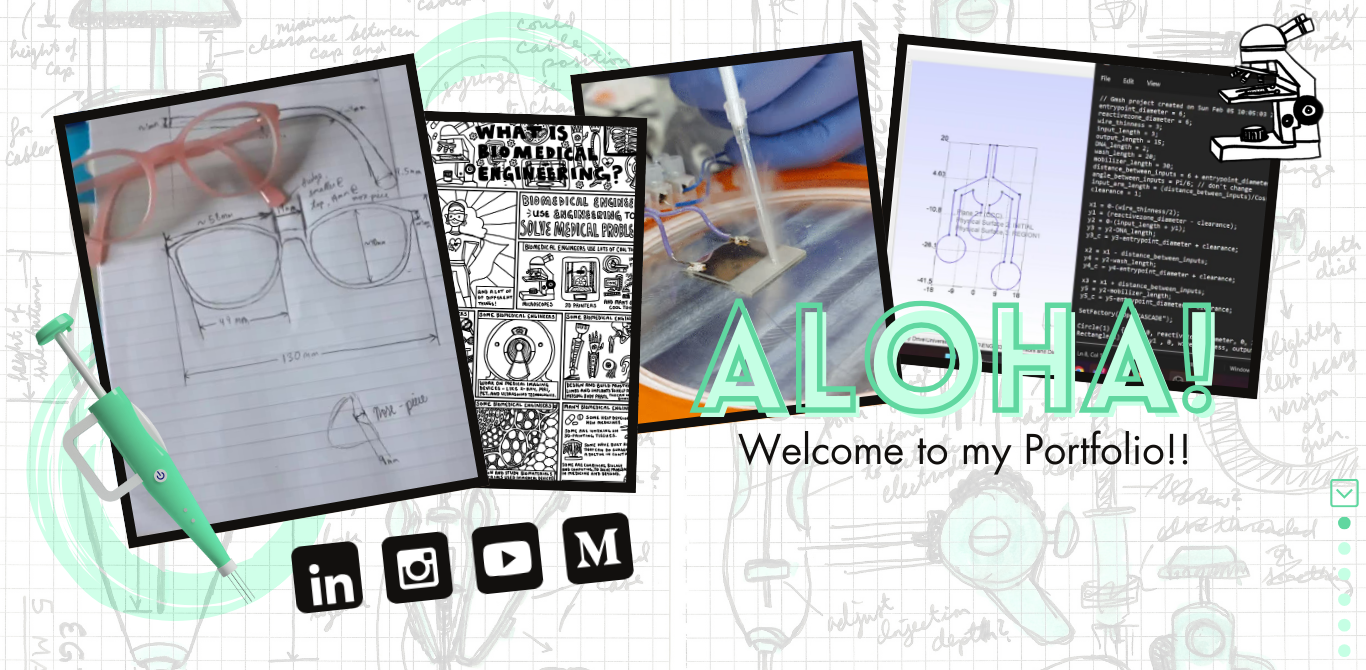
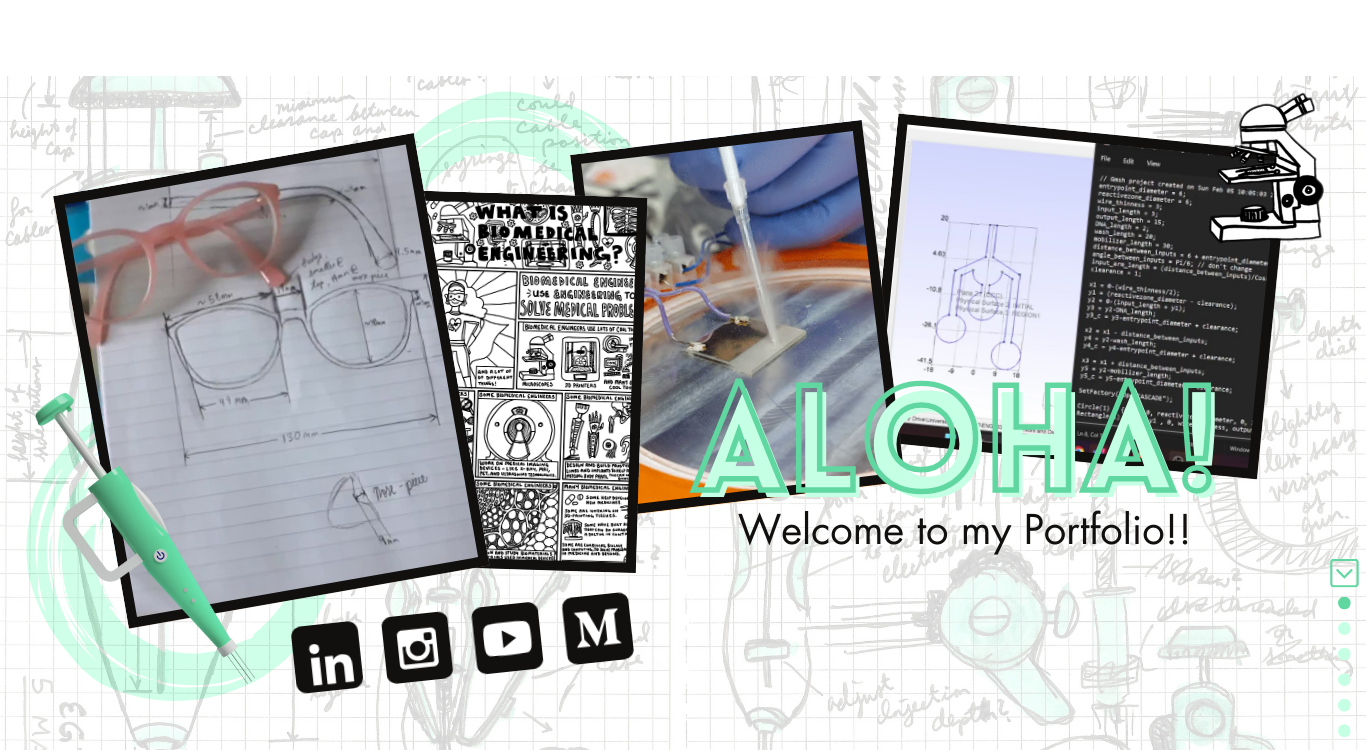
Added lots of section backgrounds, headings, footer, etc.

diff --git a/style.css b/style.css
@@ -28,23 +28,36 @@ body{
 
 .navbar{
     background-color: #60D7A0;
-    padding:1em;
+    padding:0.6rem;
+    position: fixed;
+    width: inherit;
     display: grid;
     grid-template-columns: repeat(3, 1fr);
+    top:0;
+    z-index: 999;
 }
 
 #name-wrapper{
   grid-column: 1;
+  padding-left: 0.4rem;
 }
-#name-header{
+#name-header a{
     font-family: Raleway;
     font-weight: 800;
     font-size: 1.7rem;
+    text-decoration: none;
     text-shadow: 0.1rem 0.1rem 0.1rem #C5FFE4;
     color: white;
     text-transform: uppercase;
     letter-spacing: 0.1rem;
 }
+#name-header a:hover{
+    cursor: pointer;
+    text-shadow: 0.15rem 0.15rem 0.1rem #C5FFE4;
+    transition: 250ms ease-in-out;
+    letter-spacing: 0.15rem;
+}
+
 #name-subtitle{
     font-family: Questrial;
     font-size: 0.7rem;
@@ -54,6 +67,7 @@ body{
 #nav-wrapper{
     font-family: Questrial;
     font-size: 1rem;
+    padding-right: 1rem;
     color: white;
     text-transform: lowercase;
     grid-column: 2/4;
@@ -78,7 +92,7 @@ a .navlink{
     text-decoration: underline dotted;
     margin-left: 0.75rem;
     margin-right: 0.75rem;
-    transition: 500ms;
+    transition: 500ms ease-in-out;
 }
 
 .navlink:hover ::after{
@@ -87,7 +101,7 @@ a .navlink{
 
 section{
     width: 100%;
-    height: 100%;
+    height: 100vh;
     display: block;
 }
 
@@ -95,4 +109,94 @@ section{
     background-image: url("assets/img/bg_temp.png");
     background-size: cover;
     background-repeat: none;
+    -webkit-mask-image: linear-gradient(to bottom, black 98%, rgba(0,0,0,0.1) 100%);
+    mask-image: linear-gradient(to bottom, black 98%, rgba(0,0,0,0.1) 100%);
+}
+#projects{
+    background-image: url("assets/img/projects_bg3.png");
+    background-size: cover;
+    background-repeat: none;
+    -webkit-mask-image: linear-gradient(to top, black 98%, rgba(0,0,0,0.1) 100%);
+    mask-image: linear-gradient(to top, black 98%, rgba(0,0,0,0.1) 100%);
+}
+#featured-projects-container{
+    position: fixed;
+    top:4rem;
+    width: 90%;
+    height: 85%;
+    margin: 5%;
+    margin-top:1%;
+}
+#featured-projects-h1{
+    font-family: Raleway;
+    font-weight: 800;
+    font-size: 2rem;
+    text-decoration: none;
+    text-shadow: -0.15rem -0.1rem white;
+    color: #165043;
+    text-transform: uppercase;
+    letter-spacing: 0.09rem;
+}
+
+#career-education{
+    background-image: linear-gradient(#77d196, #C5FFE4);
+    padding-top: 1rem;
+}
+
+#career-education-container{
+    margin:2%;
+    margin-top:5%;
+}
+#career-education-h1{
+    font-family: Raleway;
+    font-weight: 700;
+    font-size: 4rem;
+    text-decoration: none;
+    -webkit-text-stroke: 0.15rem #165043;
+    text-stroke: 0.15rem #165043;
+    color: #e5ff71;
+    text-shadow: -0.2rem -0.2rem #e5ff71;
+    text-transform: uppercase;
+    letter-spacing: 0.3rem;
+}
+
+#volunteering{
+    background-image: linear-gradient(#C5FFE4,white);
+}
+#hobbies{
+    background-color: white;
+}
+#links-more{
+    background-image: url("assets/img/bg_lastpage.png");
+    background-size: cover;
+    background-repeat: none;
+    -webkit-mask-image: linear-gradient(to top, black 98%, rgba(0,0,0,0.1) 100%);
+    mask-image: linear-gradient(to top, black 98%, rgba(0,0,0,0.1) 100%);
+}
+
+footer{
+    background-color: #bbfadd;
+    font-family: Questrial;
+    padding: 0.5rem;
+    position: fixed;
+    width: inherit;
+    bottom: 0;
+    display: grid;
+    grid-auto-columns: minmax(0, 1fr);
+    grid-auto-flow: column;
+    z-index: 998;
+}
+#copyright{
+    grid-column: 1;
+    padding-left: 0.5rem;
+    font-size:0.7rem;
+}
+#socials{
+    grid-column: 2;
+}
+#contact{
+    grid-column: 3;
+    font-size:0.7rem;
+    text-align:right;
+    padding-right: 2rem;
 }

diff --git a/index.html b/index.html
@@ -7,15 +7,16 @@
   <body>
     <div class = "navbar">
       <div id = "name-wrapper">
-        <div id = "name-header">Sophia Davis</div>
+        <div id = "name-header"><a href= "#main">Sophia Davis</a></div>
         <div id = "name-subtitle">Engineer, Product Designer, Web Developer</div>
       </div>
       <div id = "nav-wrapper">
         <ul>
           <a href = "#projects"><li class = "navlink" id = "projects-link">Projects<span></span></li></a>
-          <a href = "#career-education"><li class = "navlink" id = "career_ed-link">Career & Education<span></span></li></a>
+          <a href = "#career-education"><li class = "navlink" id = "career_ed-link">Career + Education<span></span></li></a>
           <a href = "#volunteering"><li class = "navlink" id = "volunteer-link">Volunteering<span></span></li></a>
           <a href = "#hobbies"><li class = "navlink" id = "hobbies-link">Hobbies<span></span></li></a>
+          <a href = "#links-more"><li class = "navlink" id = "links_more-link">Links + More<span></span></li></a>
         </ul>
       </div>
     </div>
@@ -25,19 +26,34 @@
     </section>
     
     <section id = "projects">
-
+      <div id = featured-projects-container>
+        <h1 id = "featured-projects-h1">Featured Projects</h1>
+      </div>
     </section>
 
     <section id = "career-education">
-
+      <div id = career-education-container>
+        <h1 id = "career-education-h1">Career & Education</h1>
+      </div>
+      
     </section>
 
     <section id = "volunteering">
-
+      
     </section>
 
     <section id = "hobbies">
-
+      
     </section>
+
+    <section id = "links-more">
+
+      <footer>
+        <div id = "copyright">copyright 2024 Sophia Davis</div>
+        <div id = "socials"><center>linkedin github youtube devpost medium</center></div>
+        <div id = "contact">sophiaisfabulous at gmail dot com</div>
+      </footer>
+    </section>
+
   </body>
 </html>
